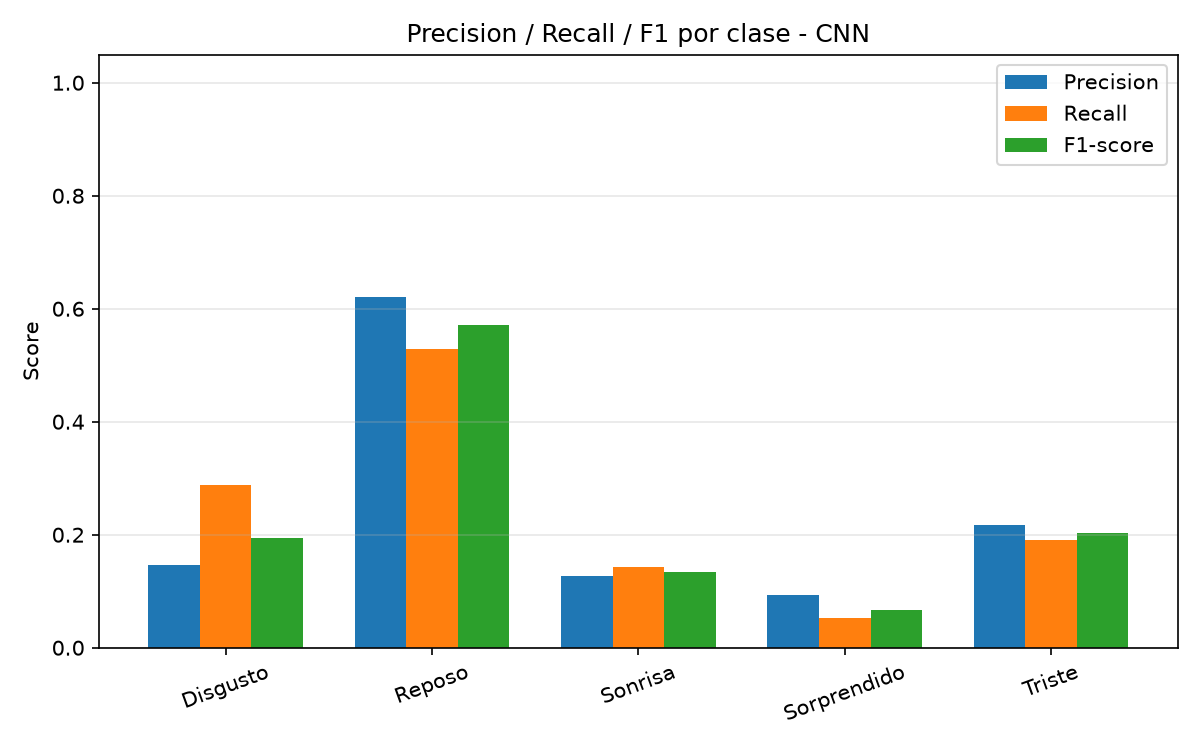
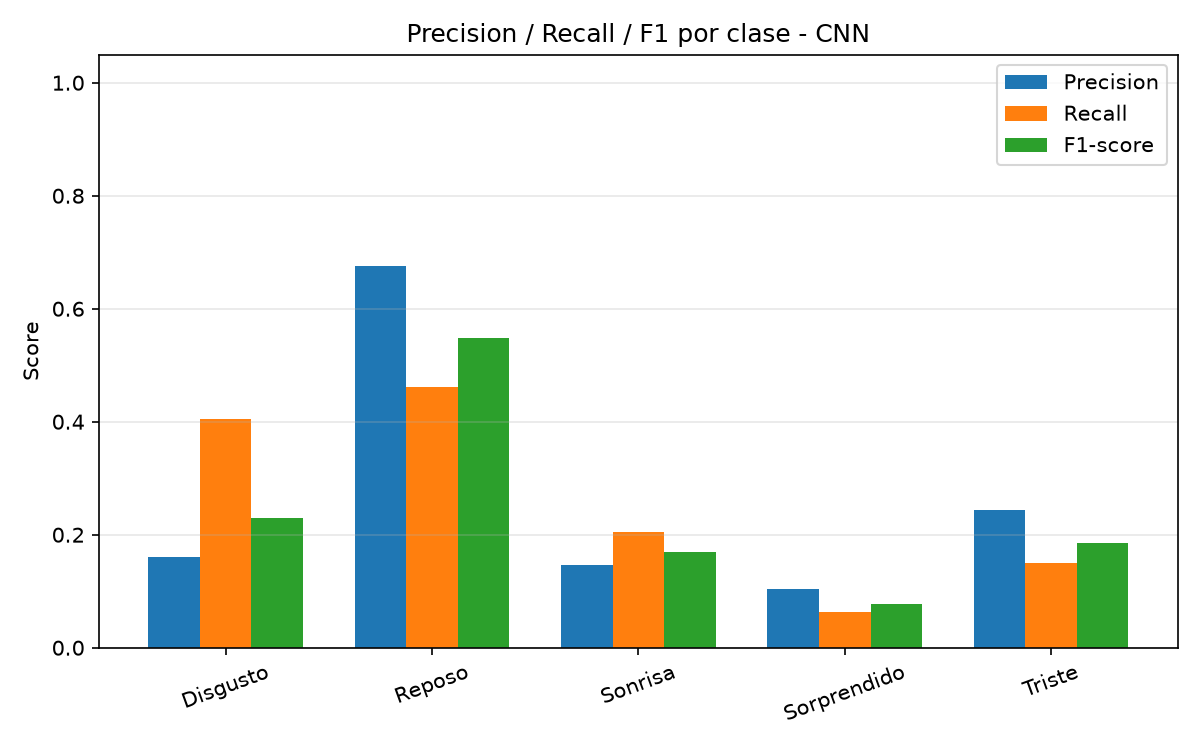
Actividad diagnostica de CNN

diff --git a/main/diagnose_activity.py b/main/diagnose_activity.py
@@ -1,0 +1,103 @@
+"""
+Diagnostico: revisa si las ventanas etiquetadas con una emocion activa
+en realidad tienen actividad muscular similar a Reposo (linea base)
+
+Si una fraccion grande de las ventanas de una clase "activa" tiene la 
+misma amplitud que Reposo, el modelo NO esta fallando por falta de datos: 
+esta prediciendo "Reposo" porque, en terminos de la senal, esas ventanas 
+SI se parecen a Reposo
+
+python -m main.diagnose_activity
+"""
+
+from pathlib import Path
+
+import numpy as np
+import pandas as pd
+import matplotlib.pyplot as plt
+
+from .emg_ml.model import load_dataset
+
+
+def activity_score(df):
+    env_cols = [c for c in df.columns if c.endswith("_env_mean")]
+    if not env_cols:
+        raise ValueError("No se encontraron columnas *_env_mean en el dataset. "
+                          "Revisa el nombre real de tus columnas de envolvente en features.py")
+    return df[env_cols].mean(axis=1)
+
+
+def overlap_with_reposo(df, score_col="ActivityScore", reference_label="Reposo"):
+    ref = df.loc[df["Label"] == reference_label, score_col]
+    ref_p75 = ref.quantile(0.75)
+
+    rows = []
+    for label in sorted(df["Label"].unique()):
+        if label == reference_label:
+            continue
+        vals = df.loc[df["Label"] == label, score_col]
+        pct_below = float((vals <= ref_p75).mean() * 100)
+        pooled_std = np.sqrt((vals.std() ** 2 + ref.std() ** 2) / 2)
+        cohens_d = (vals.mean() - ref.mean()) / pooled_std if pooled_std > 0 else np.nan
+        rows.append({
+            "Clase": label,
+            "N ventanas": len(vals),
+            "Actividad media": vals.mean(),
+            "Actividad Reposo (referencia)": ref.mean(),
+            "% ventanas <= p75 de Reposo": pct_below,
+            "Cohen's d vs Reposo": cohens_d,
+        })
+    return pd.DataFrame(rows).sort_values("% ventanas <= p75 de Reposo", ascending=False)
+
+
+def plot_activity_histograms(df, score_col, save_path):
+    labels = sorted(df["Label"].unique())
+    fig, ax = plt.subplots(figsize=(8, 5))
+    for label in labels:
+        vals = df.loc[df["Label"] == label, score_col]
+        ax.hist(vals, bins=40, alpha=0.45, label=label, density=True)
+    ax.set_xlabel("Actividad muscular (promedio env_mean, 4 canales)")
+    ax.set_ylabel("Densidad")
+    ax.set_title("Distribucion de actividad muscular por clase")
+    ax.legend()
+    fig.tight_layout()
+    fig.savefig(save_path, dpi=150)
+    plt.close(fig)
+
+
+if __name__ == "__main__":
+    root = Path(__file__).resolve().parent.parent
+    dataset_path = root / "Dataset" / "features_dataset.csv"
+    output_dir = root / "Results" / "comparison"
+    output_dir.mkdir(parents=True, exist_ok=True)
+
+    df, _ = load_dataset(dataset_path)
+    df = df.copy()
+    df["ActivityScore"] = activity_score(df)
+
+    print("Actividad muscular (env_mean promedio) por clase:")
+    print(df.groupby("Label")["ActivityScore"].describe().to_string())
+
+    print("\nComparacion contra Reposo:")
+    summary = overlap_with_reposo(df, "ActivityScore")
+    print(summary.to_string(index=False))
+    summary.to_csv(output_dir / "activity_vs_reposo.csv", index=False)
+
+    plot_activity_histograms(df, "ActivityScore", output_dir / "activity_histograms.png")
+    print(f"\n-> Histograma guardado: {output_dir / 'activity_histograms.png'}")
+
+    print("\nInterpretacion:")
+    for _, r in summary.iterrows():
+        if r["% ventanas <= p75 de Reposo"] > 50:
+            print(f"  {r['Clase']}: mas de la mitad de sus ventanas tienen actividad "
+                  f"muscular igual o menor al 75% de las ventanas de Reposo -> muchas "
+                  f"ventanas etiquetadas '{r['Clase']}' probablemente capturan "
+                  f"transicion/gesto debil, no el gesto completo. Revisa la segmentacion "
+                  f"(Phase/Block) o considera un umbral minimo de energia para "
+                  f"descartar ventanas casi-en-reposo dentro de gestos activos.")
+        elif abs(r["Cohen's d vs Reposo"]) < 0.3:
+            print(f"  {r['Clase']}: actividad muy similar a Reposo (Cohen's d chico) -> "
+                  f"la amplitud muscular sola no distingue esta clase de Reposo.")
+        else:
+            print(f"  {r['Clase']}: actividad claramente distinta a Reposo, esto no "
+                  f"explica la confusion por si solo (revisa otras features).")
